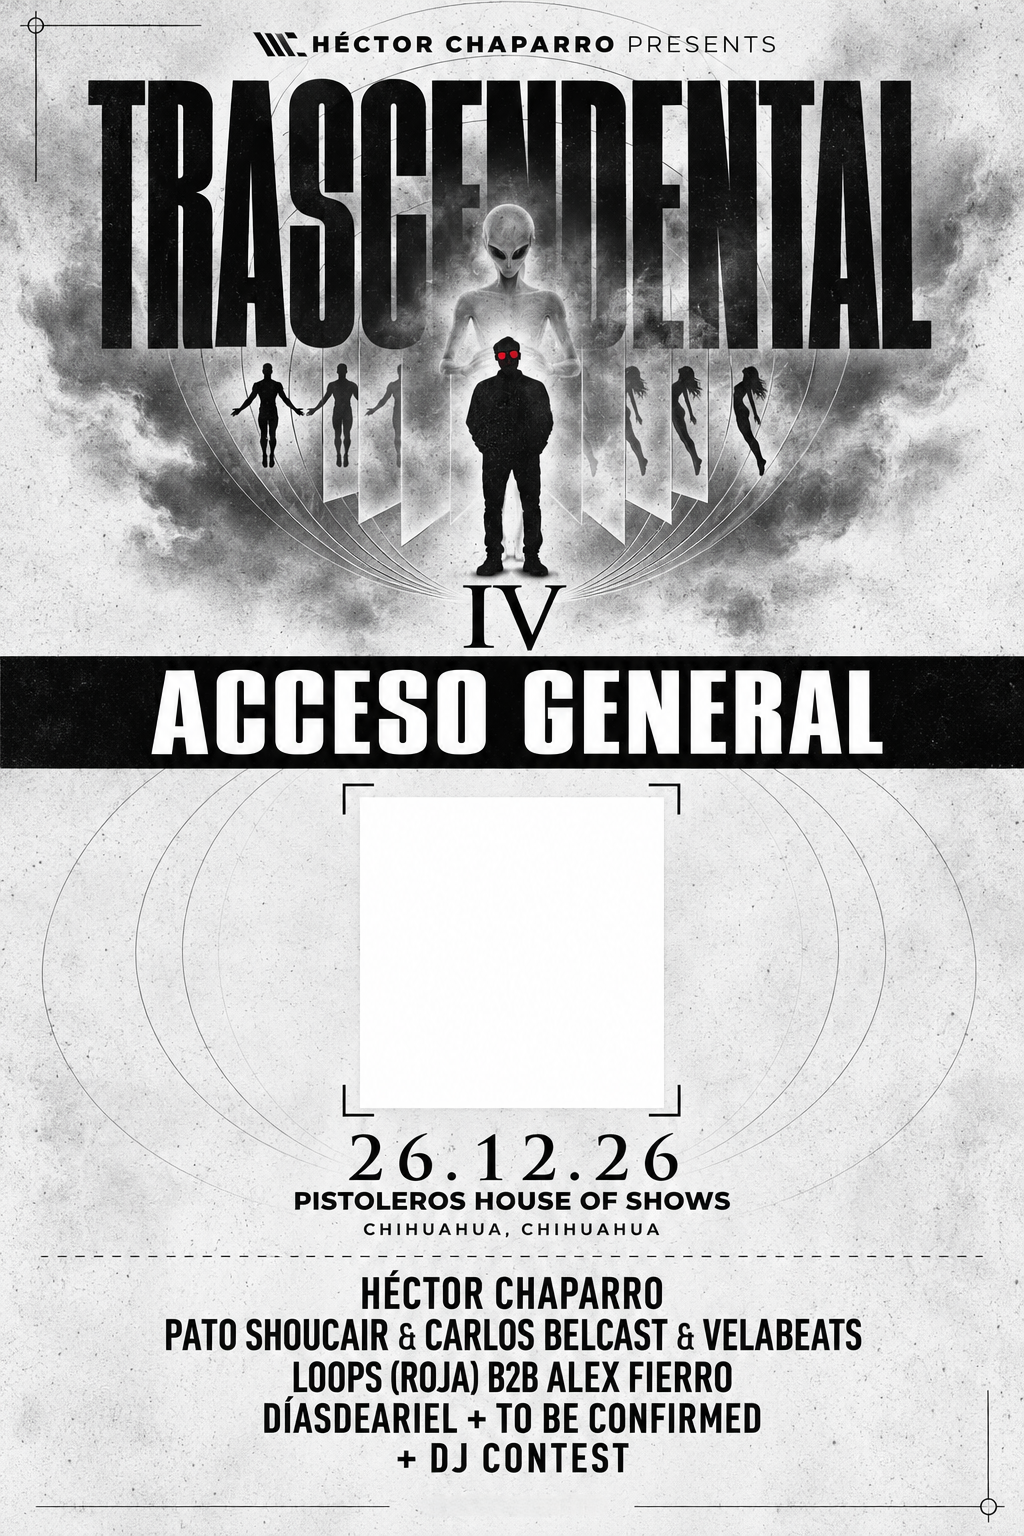
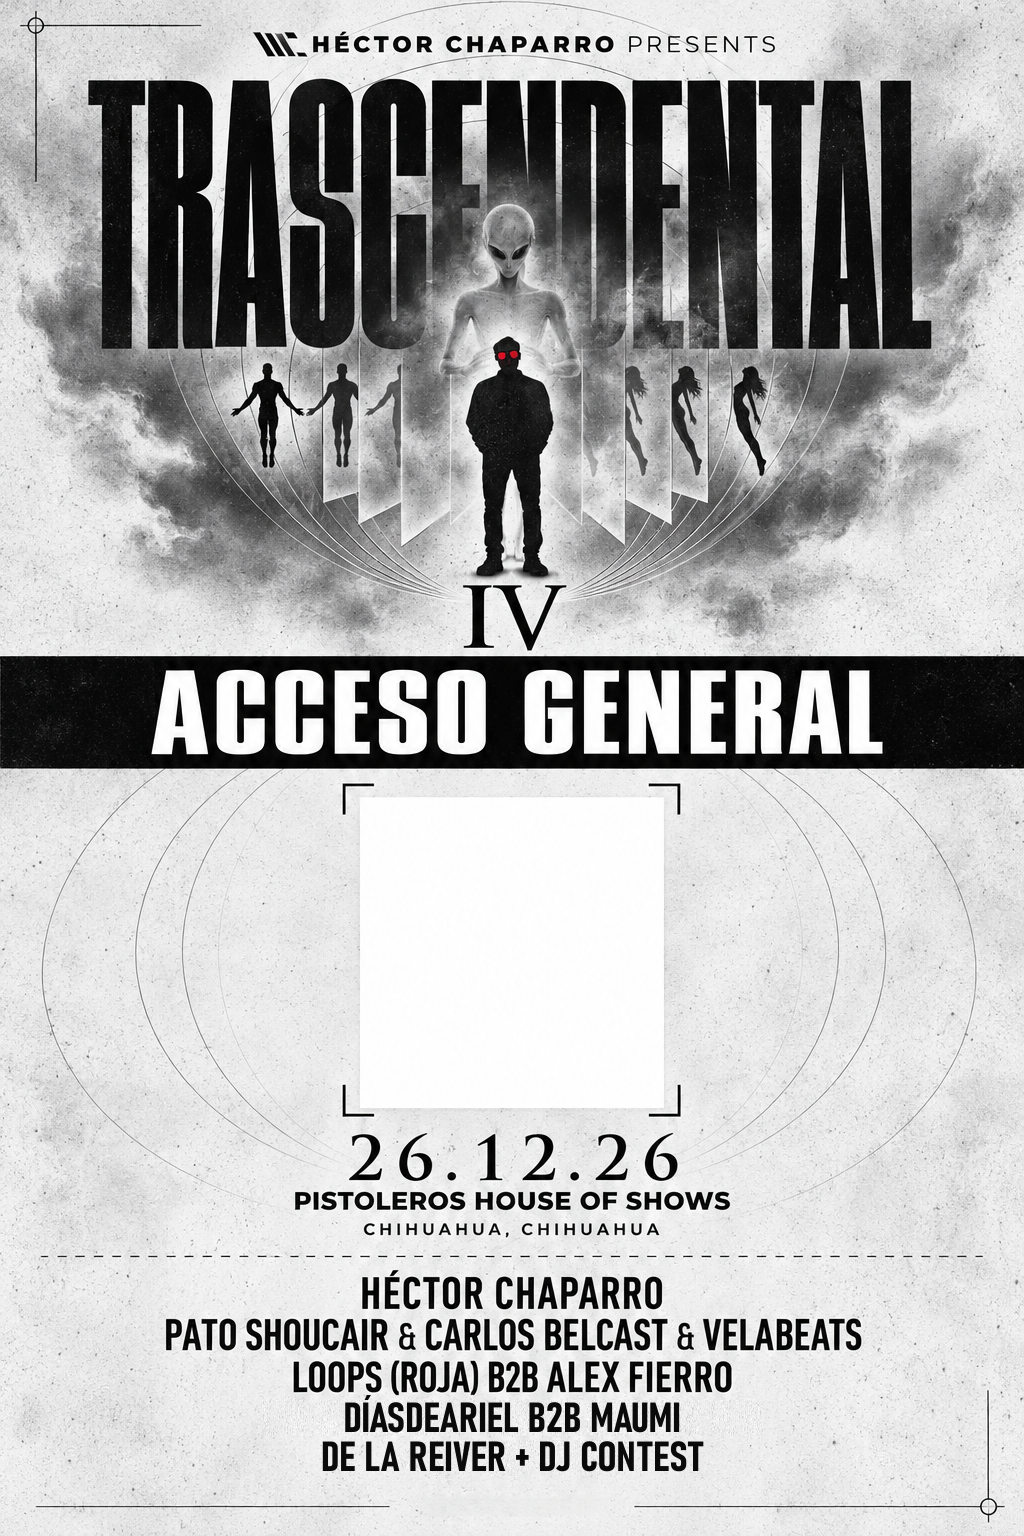
Line-up: semblanzas nuevas de Alex Fierro, Loops y maumi; boletos con line-up actualizado
Moreno sale del line-up y De La Reiver queda solo (sin B2B). Boletos general y VIP:
diasdeariel B2B maumi y De La Reiver + DJ Contest.

Changed region(s): [[0.25, 0.9062, 0.75, 0.9688]]

diff --git a/src/content/trascendental.ts b/src/content/trascendental.ts
@@ -602,8 +602,11 @@ export const lineup: Artist[] = [
       { src: "/media/lineup/loops-roja/campo.jpg", alt: "Lupita Rojas con lentes neón señalando a cámara en un campo", aspect: "3/4" },
     ],
     bio: [
-      "Loop's es el proyecto de Lupita Rojas, DJ y productora de Chihuahua enfocada en el psytrance y el twilight. Desde 2025 ha tocado en las fiestas psy más activas de la ciudad, de Psy Wonderland y The Secret Circle en Epicentro Foro a Monoparty V, y ha llevado su sonido a otras plazas del país.",
-      "Como Roja explora su lado house y techno, un terreno que ya probó en vivo con su Techno Live en Creel. Sus sets combinan energía psicodélica con una presencia cercana y festiva en cabina: una de las voces femeninas que impulsan la escena psy del norte de México.",
+      // VERIFIED — semblanza oficial del evento (References/corrections/, 13.11.26).
+      "Loops no necesita presentación. Si no la conoces, es porque no has ido a suficientes fiestas de música electrónica en Chihuahua.",
+      "DJ y productora chihuahuense que se ha consolidado como uno de los talentos destacados de la escena local, llevando su música a importantes eventos dentro y fuera del estado, incluyendo Cancún.",
+      "A lo largo de su trayectoria ha compartido escenario con grandes exponentes internacionales como Mandragora y Ace Ventura, siendo la encargada de abrir sus presentaciones.",
+      "Ahora llega a Trascendental IV con su proyecto paralelo Roja, una faceta enfocada en los sonidos del house y techno, con la que explorará una nueva identidad musical.",
     ],
     highlights: [
       { label: "Dos proyectos", text: "Loop's (psytrance / twilight), su proyecto principal · Roja (house / techno), proyecto paralelo." },
@@ -611,7 +614,7 @@ export const lineup: Artist[] = [
         label: "Presentaciones",
         text: "Halloween Monoparty V · Psychedelic Experience: Girl Power · Camino a Raíces 2 · Psy Wonderland (Epicentro Foro) · The Secret Circle (Zulu, con sesión grabada para YouTube) · Yumari · Noches de Saico · Contest Atmosphere (Sheraton Soberano) · Loading Collective (Studiobar) · Techno Live como Roja (Creel).",
       },
-      { label: "Ha compartido cartel con", text: "Creative Mind, Drastiko, Unfollow, Nava Kozz, Ubezleb, Mirrno, Neoving, Tejedk, Lixx, Saget, Yul's y Ever Tapia." },
+      { label: "Ha compartido cartel con", text: "Mandragora y Ace Ventura (abriendo sus presentaciones), Creative Mind, Drastiko, Unfollow, Nava Kozz, Ubezleb, Mirrno, Neoving, Tejedk, Lixx, Saget, Yul's y Ever Tapia." },
     ],
     socials: [
       { label: "Instagram", href: "https://instagram.com/loopsroja" },
@@ -625,15 +628,17 @@ export const lineup: Artist[] = [
     role: "Talento local · B2B",
     billing: "local",
     // VERIFIED — media kit (References/artists/alexfierro/). Fotos de su Instagram: TODO pedir originales y créditos.
-    genres: "Psytech / Techno",
+    genres: "Melodic Techno / Indie Dance / Psytrance",
     photo: "/media/lineup/alex-fierro/retrato.jpg",
     photos: [
       { src: "/media/lineup/alex-fierro/cabina.jpg", alt: "Alex Fierro en la cabina frente a visuales azules", aspect: "1/1" },
       { src: "/media/lineup/alex-fierro/sudadera.jpg", alt: "Retrato de Alex Fierro con sudadera negra y capucha", aspect: "1/1" },
     ],
     bio: [
-      "DJ de psytech y techno de Chihuahua. En cabina lleva la misma energía con la que entrena: sets intensos y de buena vibra, pensados para no soltar la pista.",
-      "Ha tocado recientemente en las ediciones de Psyline Records en Epicentro y Zulu, dos de los venues clave de la escena electrónica de la ciudad. Fuera de la cabina es coach en BioGym y una cara conocida de la comunidad fitness de Chihuahua.",
+      // VERIFIED — semblanza oficial del evento (References/corrections/, 13.11.26).
+      "DJ y talento emergente de la escena electrónica chihuahuense, caracterizado por su versatilidad musical y su capacidad de explorar diferentes sonidos y estilos.",
+      "Su propuesta abarca géneros como melodic techno, indie dance y psytrance, combinando distintas influencias para crear una identidad musical dinámica.",
+      "Para esta edición de Trascendental IV, Alex Fierro llega con un set fresco, lleno de energía y una selección musical preparada especialmente para esta experiencia.",
     ],
     highlights: [{ label: "Presentaciones", text: "Psyline Records en Epicentro y en Zulu, Chihuahua (psytech / techno)." }],
     socials: [
@@ -679,20 +684,21 @@ export const lineup: Artist[] = [
   },
   {
     // VERIFIED — media kit 2026 (References/artists/maumi/). Fotos de su Instagram: TODO pedir originales y créditos.
-    // TODO — el kit marca por confirmar: nombre completo, ciudad base, año de inicio, géneros y relación con Baby Grooves.
+    // TODO — el kit marca por confirmar: nombre completo, año de inicio y relación con Baby Grooves.
     slug: "maumi",
     name: "maumi",
     b2b: "diasdeariel",
-    role: "El Paso, TX · B2B",
+    role: "Ciudad de México · B2B",
     billing: "local",
-    genres: "House · DJ y live set", // TODO confirmar géneros (sus carteles lo ubican en noches de house)
+    genres: "Tech House · DJ y live set",
     photo: "/media/lineup/maumi/retrato.jpg",
     photos: [
       { src: "/media/lineup/maumi/auto.jpg", alt: "maumi con audífonos y laptop en el asiento trasero de un auto", aspect: "3/4" },
       { src: "/media/lineup/maumi/selfie.jpg", alt: "maumi con gorra y lentes oscuros en un auto con techo panorámico", aspect: "3/4" },
     ],
     bio: [
-      "Productor musical que se presenta con dos palabras: sexy sounds. Su trabajo empieza en el estudio, entre sintetizadores, consola y Ableton, y termina en la cabina, donde presenta su música en formato DJ y live set.",
+      // VERIFIED — semblanza oficial del evento (References/corrections/maumi.txt, 13.11.26).
+      "DJ y productor mexicano radicado en Ciudad de México, reconocido por su distintivo sonido groovy y contundente dentro de la escena tech house. Su propuesta musical combina ritmos envolventes, bajos ponchados y grooves adictivos.",
       "En 2026 abrió para Tom & Collins en The Baths, en Austin, durante el fin de semana del Gran Premio de Estados Unidos de Fórmula 1. Antes, en marzo, firmó su propia noche con line-up invitado en Stanton House, El Paso.",
     ],
     highlights: [
@@ -712,8 +718,7 @@ export const lineup: Artist[] = [
     // VERIFIED — EPK https://delareiver-presskit.vercel.app/ (fotos y video del artista: References/artists/de-la-reiver/).
     slug: "de-la-reiver",
     name: "De La Reiver",
-    b2b: "moreno",
-    role: "Talento local · B2B",
+    role: "Talento local",
     billing: "local",
     genres: "Tech House / House",
     photo: "/media/lineup/de-la-reiver/retrato.jpg",
@@ -741,38 +746,6 @@ export const lineup: Artist[] = [
     socials: [
       { label: "Instagram", href: "https://www.instagram.com/de_la_reiver/" },
       { label: "SoundCloud", href: "https://soundcloud.com/suisrap1986" },
-    ],
-  },
-  {
-    // VERIFIED — media kit 2026 (References/artists/moreno/). Fotos de su Instagram: TODO pedir originales y créditos.
-    // TODO — el kit marca por confirmar: nombre completo, edad, año de inicio y lista completa de residencias.
-    slug: "moreno",
-    name: "Moreno",
-    b2b: "de-la-reiver",
-    role: "Talento local · B2B",
-    billing: "local",
-    genres: "Open Format / Bass Music",
-    photo: "/media/lineup/moreno/retrato.jpg",
-    photos: [
-      { src: "/media/lineup/moreno/red-bull.jpg", alt: "Moreno con audífonos y lentes naranjas en la cabina frente a un letrero de Red Bull", aspect: "3/4" },
-      { src: "/media/lineup/moreno/mirador.jpg", alt: "Moreno recargado en un poste en un mirador sobre la ciudad de Chihuahua", aspect: "3/4" },
-    ],
-    bio: [
-      "Moreno, también conocido como Moreno MX, es un DJ de Chihuahua. Empezó a los 15 años en fiestas, bares y antros de la ciudad, y en su primer año de residencias ya sumaba más de cinco venues, entre ellos Dembow CUU y Back Room.",
-      "Su set cruza dos mundos: el formato abierto que llena la pista (reggaetón, trap latino y el pop que todos corean) y una vena de bass music (dubstep, riddim, brostep) que lo ha puesto en los line-ups electrónicos del Outdoor Stage de Zulu, en fechas producidas junto a Psyline Records y Loading Collective.",
-    ],
-    highlights: [
-      { label: "Dos sets", text: "Club / open format: reggaetón, trap latino, perreo, pop y throwbacks · Rave / bass: dubstep, riddim y brostep." },
-      {
-        label: "Presentaciones",
-        text: "Pop Up Rave · Viva La Dance (19.09.26) · CODE:08, Zulu Outdoor Stage (14.08.26, slot principal) · Sabina Palma: Øverride, Zulu Outdoor Stage (06.06.26, Psyline Records × Loading Collective) · Una Noche en Familia, Zulu Cocktail & Lounge (07.11.25).",
-      },
-      { label: "Venues y plazas", text: "Zulu · Level · Normal CUU · Dembow CUU · Back Room · R14 Club · Opal Night · Crypto TRC · Puerto Vallarta." },
-    ],
-    socials: [
-      { label: "Instagram", href: "https://instagram.com/morenomxdj" },
-      { label: "TikTok", href: "https://www.tiktok.com/@morenomxdj" },
-      { label: "SoundCloud", href: "https://soundcloud.com/morenomxdj" },
     ],
   },
 ];
